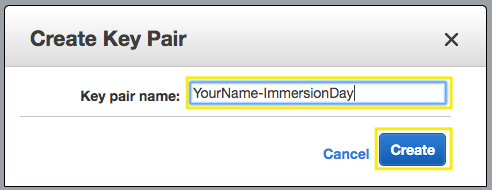
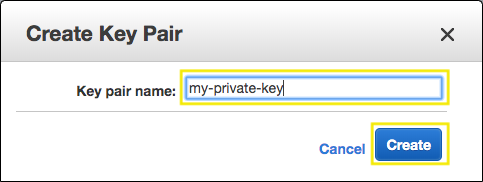
RDS new version

Changed region(s): [[0.0, 0.0, 1.0, 1.0], [0.6522, 0.6593, 0.9317, 0.9341]]

diff --git a/docs/getting-started-with-amazon-rds-new.md b/docs/getting-started-with-amazon-rds-new.md
@@ -59,53 +59,52 @@ Now that our VPC security group and subnet group are ready, let’s configure an
 
 ![RDS Create Database](images/rds-launch.png)
 
-3.3\. We will be using a MySQL database, so choose **MySQL** from the available engines.
+3.3\. We will be using a MySQL database, so choose **MySQL** from the **Engine Options**, scroll down and in **Templates** section select **Free tier**.
 
-3.4\. Click **Next**.
+![RDS Engine](images/rds-engine-new.png)
 
-![RDS Engine](images/rds-engine.png)
+3.4\. Scroll down, for the **Settings** section fill out with the following information:
 
-3.5\. Check **Dev/Test - MySQL** for the Use Case, at the bottom of the page, and then click **Next**.
-
-![RDS Use Case](images/rds-use-case.png)
-
-3.6\. Fill out the DB Instance details with the following information and click **Next**:
-
-* **DB engine version:** `Use the default engine version`
-* **DB Instance class:** `db.t2.micro`
-* **Storage type:** `General Purpose (SSD)`
-* **Allocated Storage:** `20 GB`
 * **DB instance identifier:** `awsdb`
 * **Master username:** `awsuser`
 * **Master Password:** `awspassword`
+* **Confirm Password:** `awspassword`
 
-![RDS Config](images/rds-config-1.png)
+![RDS Settings](images/rds-settings-new.png)
 
-![RDS Config](images/rds-config-2.png)
+3.5\. Scroll down, for the **DB instance size** and **Storage** sections leave the values as default.
 
-3.7\. In **Configure Advanced Settings**, fill out Network & Security with the following information:
+3.6\. Scroll down, for the **Connectivity** section select your **My VPC** and click on **Additional connectivity configuration**.
 
-* **Virtual Private Cloud (VPC):** `My VPC`
+![RDS Connectivity](images/rds-connectivity-new.png)
+
+3.7\. Scroll down and for the **Additional connectivity configuration** section select as follows:
+
 * **Subnet group:** `privatedbgroup`
-* **Public accessibility:** `No`
+* **Publicly accessible:** `No`
+* **VPC security groups:** Select **Choose existing**, then select **immersion-day-db** and remove the **default** security group.
 * **Availability zone:** `No Preference`
-* **VPC security groups:** Select **Choose existing VPC security groups**, then pick **immersion-day-db**, remove the **default** security group.
-* **Database nema:** `immersionday`.
 
-![RDS VPC](images/rds-vpc.png)
+![RDS Additional](images/rds-additional-conf-new.png)
 
-3.8\. Choose **Create database** and **View DB instance details**. In the RDS Dashboard, monitor your new DB instance until the status changes from “**Creating**” to “**Backing-up**” to “**Available**”.
+3.8\. Scroll down and click on **Additional configuration**, fill out as follows:
+
+* **Initial database name:** `immersionday`.
+
+![RDS Additional](images/rds-addtional-configuration-name.png)
+
+3.9\. Scroll down and choose **Create database**. In the RDS Dashboard, monitor your new DB instance until the status changes from “**Creating**” to “**Backing-up**” to “**Available**”.
 
 !!! info
     This may take up to 5 minutes as the database is being created and backed up, once is in **Available** status you can continue.
 
 ![RDS Status](images/rds-status.png)
 
-3.9\. Choose your database **awsdb**  
+3.10\. Choose your database **awsdb**  
 
 ![RDS List](images/rds-list.png)
 
-3.10\. From the **Connectivity & security** description, copy the **Endpoint** once is available, you will use it in the next section.
+3.11\. From the **Connectivity & security** description, copy the **Endpoint** once is available, you will use it in the next section.
 
 ![RDS Connectivity & security](images/rds-connectivity.png)
 

diff --git a/docs/getting-started-with-linux-on-amazon-ec2.md b/docs/getting-started-with-linux-on-amazon-ec2.md
@@ -16,11 +16,11 @@ You will need to create an EC2 instance using an SSH keypair. The following step
 
 1.4\. To create a new SSH key pair, click the **Create Key Pair** button at the top of the browser window.
 
-1.5\. In the resulting pop up window, type [First Name]-[Last Name]-ImmersionDay into the **Key Pair Name:** text box and click **Create**.
+1.5\. In the resulting pop up window, type `my-private-key` into the **Key Pair Name:** text box and click **Create**.
 
 ![Key Pair](images/ec2-key-pair.png)
 
-1.6\. The page will download the file "[Your-Name]-ImmersionDay.pem" to the local drive. Follow the browser instructions to save the file to the default download location.
+1.6\. The page will download the file ***my-private-key.pem** to the local drive. Follow the browser instructions to save the file to the default download location.
 
 1.7\. Remember the full path to the file .pem file you just downloaded.
 
@@ -74,7 +74,7 @@ https://s3.amazonaws.com/immersionday-labs/bootstrap.sh
 
 ![Launch Instances](images/ec2-select-key.png)
 
-2.13\. Click the **View Instances** button in the lower righthand portion of the screen to view the list of EC2 instances. Once your instance has launched, you will see your Web Server as well as the Availability Zone the instance is in, and the publicly routable DNS name.
+2.13\. Scroll down and click the **View Instances** button in the lower righthand portion of the screen to view the list of EC2 instances. Once your instance has launched, you will see your Web Server as well as the Availability Zone the instance is in, and the publicly routable DNS name.
 
 2.14\. Click the checkbox next to your web server to view details about this EC2 instance.
 

diff --git a/README.md b/README.md
@@ -22,12 +22,11 @@ Visit the portal to get started: http://aws-core-services.ws.kabits.com
 
 You must complete the following modules in **US East (N. Virginia)** region in order before proceeding to the next:
 
-1\. [Getting Started with Identity & Access Management](docs/getting-started-with-iam.md "Amazon IAM")
-
-2\. [Getting Started with Amazon VPC](docs/getting-started-with-amazon-vpc.md "Amazon VPC")
-
-3\. [Getting Started with Linux on Amazon EC2](docs/getting-started-with-linux-on-amazon-ec2.md "Amazon EC2")
-
-4\. [Getting Started with Amazon S3](docs/getting-started-with-amazon-s3.md "Amazon S3")
-
-5\. [Getting Started with Amazon RDS](docs/getting-started-with-amazon-rds.md "Amazon RDS")
+- [Getting Started with Identity & Access Management](docs/getting-started-with-iam.md "Amazon IAM")
+- Publish a Static WebSite
+    - [Getting Started with Amazon S3](docs/getting-started-with-amazon-s3.md "Amazon S3")
+- Two-tier Application (Linux)
+    - [Getting Started with Amazon VPC](docs/getting-started-with-amazon-vpc.md "Amazon VPC")
+    - [Getting Started with Linux on Amazon EC2](docs/getting-started-with-linux-on-amazon-ec2.md "Amazon EC2")
+    - [Getting Started with Amazon RDS](docs/getting-started-with-amazon-rds-new.md "Amazon RDS")
+    - [Getting Started with Amazon RDS](docs/getting-started-with-amazon-rds-new.md "Amazon RDS")

diff --git a/docs/getting-started-with-amazon-vpc.md b/docs/getting-started-with-amazon-vpc.md
@@ -22,7 +22,7 @@
 
 2.1\. Open the Amazon VPC console at https://console.aws.amazon.com/vpc/.
 
-2.2\. In the navigation pane, choose **VPC Dashboard**. From the dashboard, choose **Launch VPC Wizard**.
+2.2\. From the **VPC Dashboard** choose **Launch VPC Wizard**.
 
 ![Launch VPC Wizard](images/launch-vpc-wizard.png)
 
